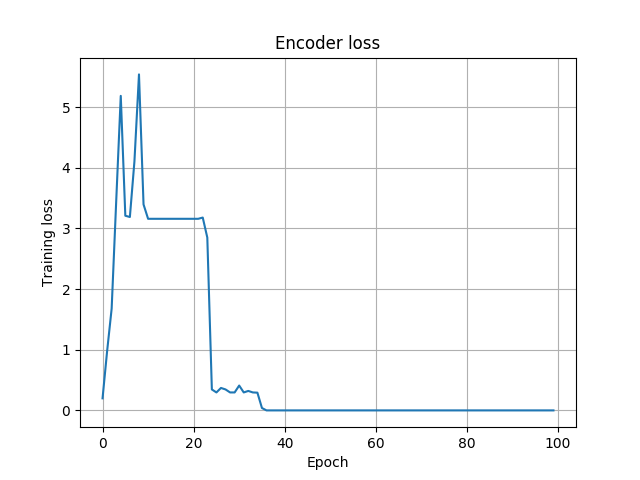
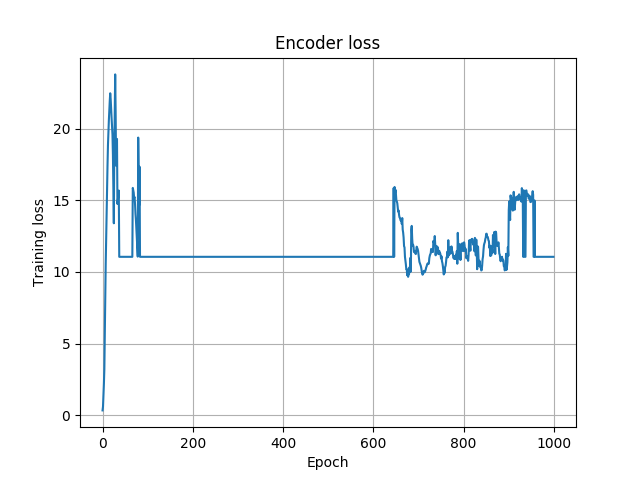
Debug

diff --git a/configuration.py b/configuration.py
@@ -19,9 +19,6 @@ class Configuration(object):
     experiment_name = "debug"
     log_dir = './log/' + dataset + '/' + experiment_name + '/'
 
-
-
-
     # Diagnostics
     sample_size = 16
     sample_rows = 4 # nrow to save_image grid
@@ -35,8 +32,50 @@ class Configuration(object):
     plot_prc = True
 
     # dataset specific options below
+    if dataset == "prosivic":
+        # Hyperparameters
+        betas = (0.5,0.999) # adam solver standard is (0.5, 0.999), GPND standard is (0.9,0.999)
+#        learning_rate = 0.001
+        n_train_epochs = 1000
+        n_epochs_between_lr_change = n_train_epochs+1
+        num_sample_epochs = 10
+        lr_g  = 0.002
+        lr_e  = 0.002
+        lr_d  = 0.002
+        lr_ge = 0.002
+        lr_zd = 0.002
+        rec_loss_weight = 10
+        weight_g_loss = 0.1
+        architecture = "0_3_0_64_256_4_2_1"
+        n_dense_units = None
+        inliers_name = "sunny"
+        outliers_name = "foggy"
+        zd_n_layers = 3
+        zd_out_units = [256,256,1]
 
-    if dataset == "dreyeve":
+        # Dataset options
+        image_height = 256
+        image_width = 256
+        channels = 3
+        model_name = "_".join([inliers_name, architecture])
+
+        experiment_name = "debug"
+        batch_size = 10
+        use_batchnorm = True
+        data_div = 140
+        n_train = 7000 // data_div
+        n_val = 1413 // data_div
+        n_test = 787 // data_div # for GPND algorithm, the test set is split into val and test set during testing, since the valset contains outliers in order to compute an optimal threshold. This is used to compute some of the output values, but not AUPRIN or AUROC, which are threshold independent.
+        n_test_in = 787 // data_div
+
+        img_folder =   "../weather_detection_data/prosivic/"
+        train_folder = "../weather_detection_data/prosivic/train/"
+        val_folder =   "../weather_detection_data/prosivic/val/"
+        test_in_folder =  "../weather_detection_data/prosivic/test/in/"
+        test_out_folder =  "../weather_detection_data/prosivic/test/out/"
+
+
+    elif dataset == "dreyeve":
 
         architecture = "0_6_0_16_256_4_2_1"
         inliers_name = "sunny_highway"
@@ -80,48 +119,6 @@ class Configuration(object):
         test_out_folder = "../weather_detection_data/dreyeve/sunny_highway_countryside_morning_evening_vs_rainy_highway_countryside_morning_evening/test/out/foggy"
 
     
-    elif dataset == "prosivic":
-        # Hyperparameters
-        betas = (0.9,0.999) # adam solver standard is (0.5, 0.999), GPND standard is (0.9,0.999)
-#        learning_rate = 0.001
-        n_train_epochs = 100
-        n_epochs_between_lr_change = n_train_epochs+1
-        num_sample_epochs = 5
-        lr_g  = 0.002
-        lr_e  = 0.002
-        lr_d  = 0.002
-        lr_ge = 0.002
-        lr_zd = 0.002
-        rec_loss_weight = 1000
-
-        architecture = "0_4_0_16_256_4_2_1"
-        n_dense_units = None
-        inliers_name = "sunny_highway"
-        outliers_name = "rainy_highway"
-        zd_n_layers = 3
-        zd_out_units = [256,256,1]
-
-        # Dataset options
-        image_height = 256
-        image_width = 256
-        channels = 3
-        model_name = "_".join([inliers_name, architecture])
-
-        experiment_name = "debug"
-        batch_size = 16
-        use_batchnorm = True
-        data_div = 50
-        n_train = 7000 // data_div
-        n_val = 1413 // data_div
-        n_test = 787 // data_div # for GPND algorithm, the test set is split into val and test set during testing, since the valset contains outliers in order to compute an optimal threshold. This is used to compute some of the output values, but not AUPRIN or AUROC, which are threshold independent.
-        n_test_in = 787 // data_div
-
-        img_folder =   "../weather_detection_data/prosivic/"
-        train_folder = "../weather_detection_data/prosivic/train/"
-        val_folder =   "../weather_detection_data/prosivic/val/"
-        test_in_folder =  "../weather_detection_data/prosivic/test/in/"
-        test_out_folder =  "../weather_detection_data/prosivic/test/out/"
-
     elif dataset == "mnist":
         batch_size = 128
         architecture = None

diff --git a/log/prosivic/debug/configuration.py b/log/prosivic/debug/configuration.py
@@ -77,27 +77,27 @@ class Configuration(object):
         train_folder = "../weather_detection_data/dreyeve/sunny_highway_countryside_morning_evening_vs_rainy_highway_countryside_morning_evening/train/"
         val_folder =   "../weather_detection_data/dreyeve/sunny_highway_countryside_morning_evening_vs_rainy_highway_countryside_morning_evening/val/"
         test_in_folder =  "../weather_detection_data/dreyeve/sunny_highway_countryside_morning_evening_vs_rainy_highway_countryside_morning_evening/test/in/"
-        test_out_folder = "../weather_detection_data/dreyeve/sunny_highway_countryside_morning_evening_vs_rainy_highway_countryside_morning_evening/test/out/"
+        test_out_folder = "../weather_detection_data/dreyeve/sunny_highway_countryside_morning_evening_vs_rainy_highway_countryside_morning_evening/test/out/foggy"
 
     
     elif dataset == "prosivic":
         # Hyperparameters
         betas = (0.9,0.999) # adam solver standard is (0.5, 0.999), GPND standard is (0.9,0.999)
 #        learning_rate = 0.001
-        n_train_epochs = 100
+        n_train_epochs = 1000
         n_epochs_between_lr_change = n_train_epochs+1
-        num_sample_epochs = 5
+        num_sample_epochs = 10
         lr_g  = 0.002
         lr_e  = 0.002
         lr_d  = 0.002
         lr_ge = 0.002
         lr_zd = 0.002
-        rec_loss_weight = 1000
+        rec_loss_weight = 1
 
         architecture = "0_4_0_16_256_4_2_1"
         n_dense_units = None
-        inliers_name = "sunny_highway"
-        outliers_name = "rainy_highway"
+        inliers_name = "sunny"
+        outliers_name = "foggy"
         zd_n_layers = 3
         zd_out_units = [256,256,1]
 
@@ -108,9 +108,9 @@ class Configuration(object):
         model_name = "_".join([inliers_name, architecture])
 
         experiment_name = "debug"
-        batch_size = 16
+        batch_size = 5
         use_batchnorm = True
-        data_div = 50
+        data_div = 1400
         n_train = 7000 // data_div
         n_val = 1413 // data_div
         n_test = 787 // data_div # for GPND algorithm, the test set is split into val and test set during testing, since the valset contains outliers in order to compute an optimal threshold. This is used to compute some of the output values, but not AUPRIN or AUROC, which are threshold independent.
@@ -144,6 +144,6 @@ class Configuration(object):
         out_filenames = loadbdd100k.get_namelist_from_file(out_file)
         norm_spec = [["weather", ["clear","partly cloudy", "overcast"]],["scene", "highway"],["timeofday", "daytime"]]
         out_spec = [["weather", ["rainy", "snowy", "foggy"]],["scene", "highway"],["timeofday",["daytime","dawn/dusk","night"]]]
-# Training logged at Mon, 03 Dec 2018 18:31:31 UTC
-# Total training time:	0h22m31.8s
-# Average time/epoch:	0m13.52s
+# Training logged at Mon, 03 Dec 2018 18:52:49 UTC
+# Total training time:	0h1m44.7s
+# Average time/epoch:	0m0.10s

diff --git a/train_AAE.py b/train_AAE.py
@@ -127,7 +127,7 @@ def main(folding_id, inliner_classes, total_classes, folds=5, cfg = None):
         image_width = cfg.image_width
         data_train_x = [img_to_array(load_img(cfg.train_folder + filename)) for filename in os.listdir(cfg.train_folder)][:cfg.n_train]
         valid_imgs = [img_to_array(load_img(cfg.val_folder + filename)) for filename in os.listdir(cfg.val_folder)][:cfg.n_val]
-        
+
         # experiment_name = cfg.experiment_name
         model_name = cfg.model_name
 
@@ -306,7 +306,7 @@ def main(folding_id, inliner_classes, total_classes, folds=5, cfg = None):
             x_fake = G(z)
             D_result = D(x_fake).squeeze()
 
-            G_train_loss = BCE_loss(D_result, y_real_)
+            G_train_loss = BCE_loss(D_result, y_real_) * cfg.weight_g_loss
 
             G_train_loss.backward()
             G_optimizer.step()
@@ -350,6 +350,7 @@ def main(folding_id, inliner_classes, total_classes, folds=5, cfg = None):
             Recon_loss = cfg.rec_loss_weight*F.binary_cross_entropy(x_d, x)
 
             (Recon_loss + E_loss).backward()
+#            Recon_loss.backward()
 
             GE_optimizer.step()
 
